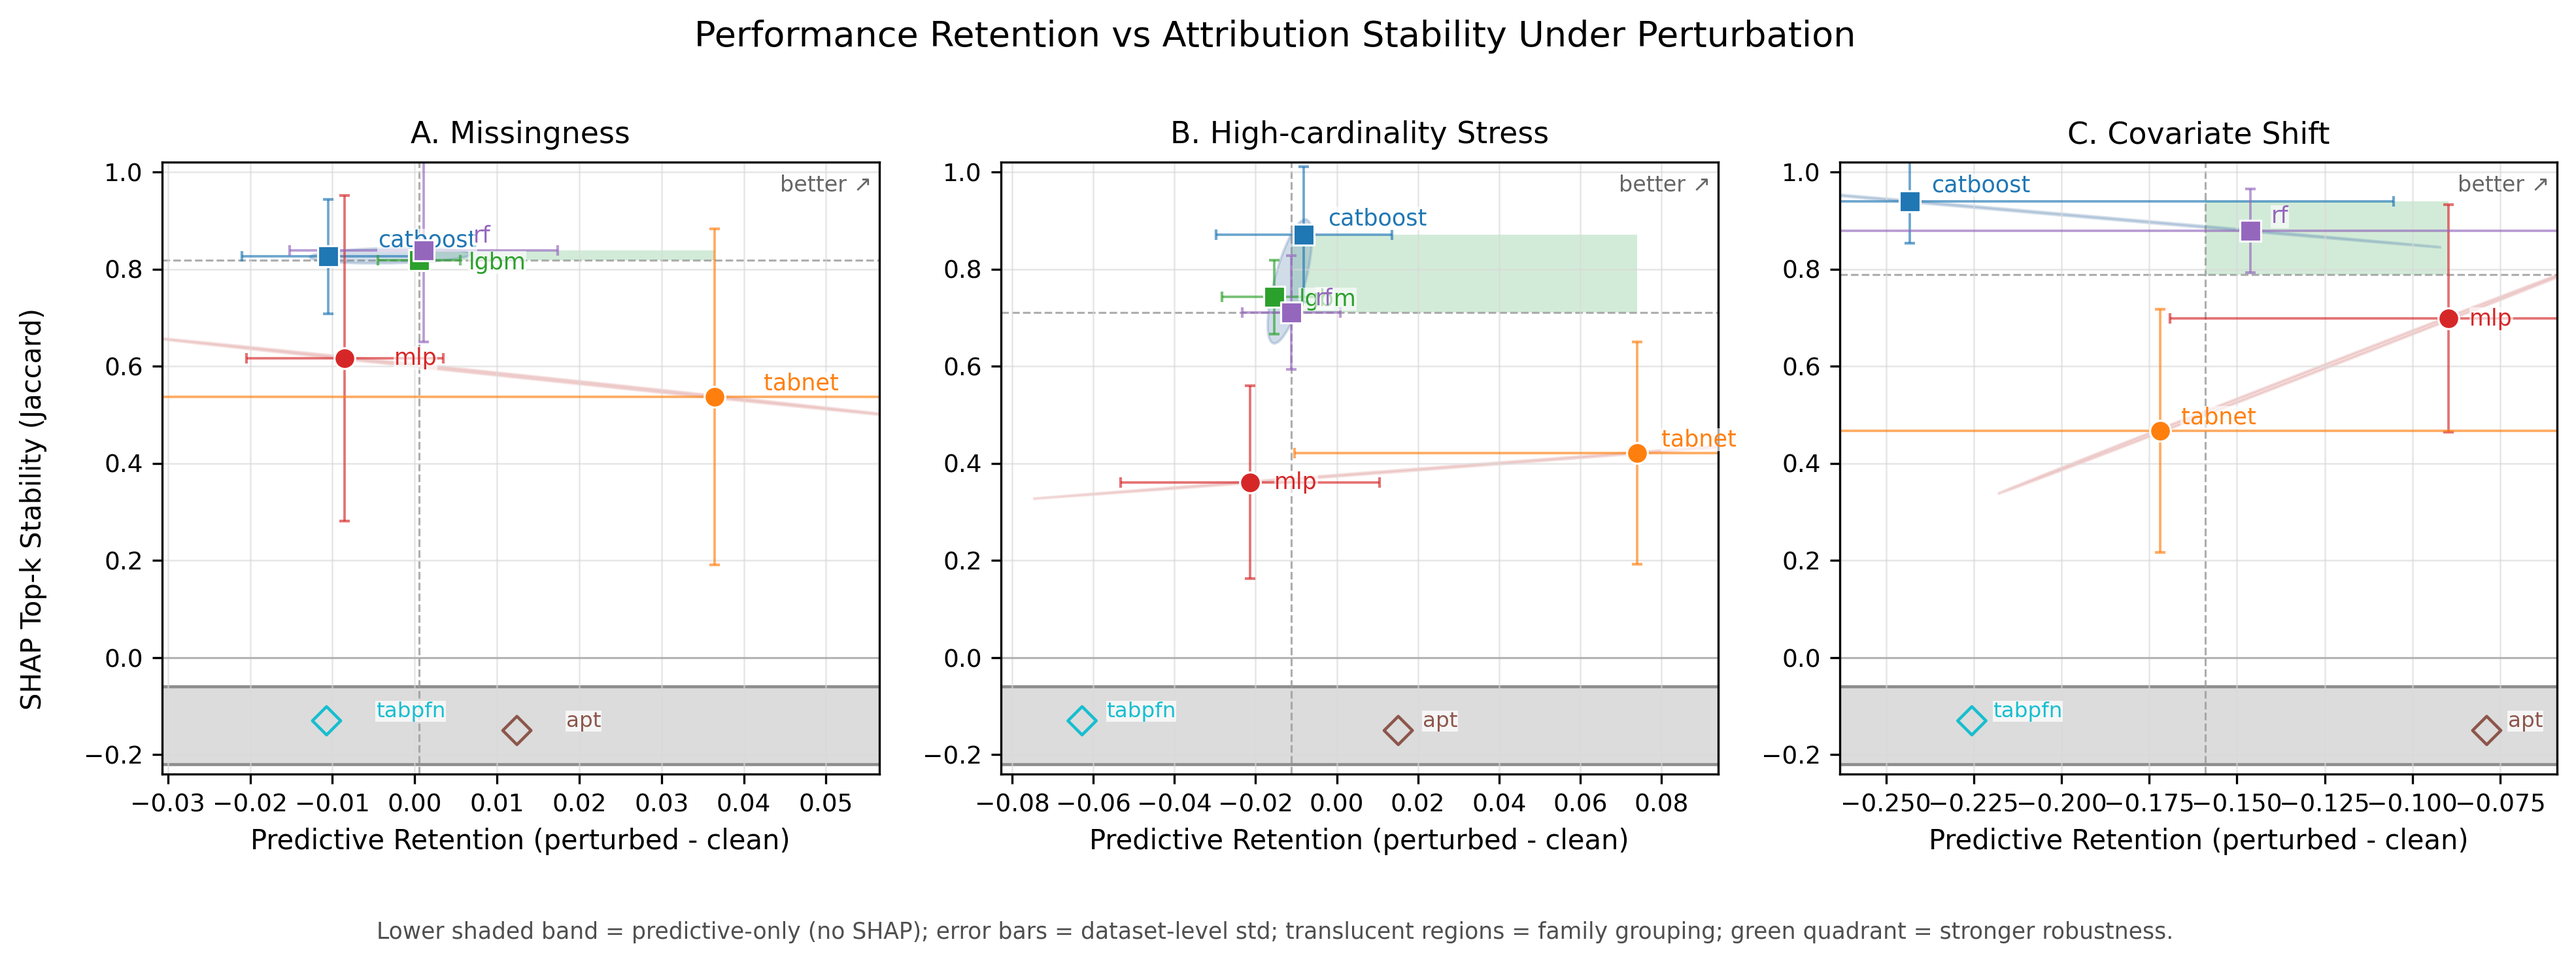
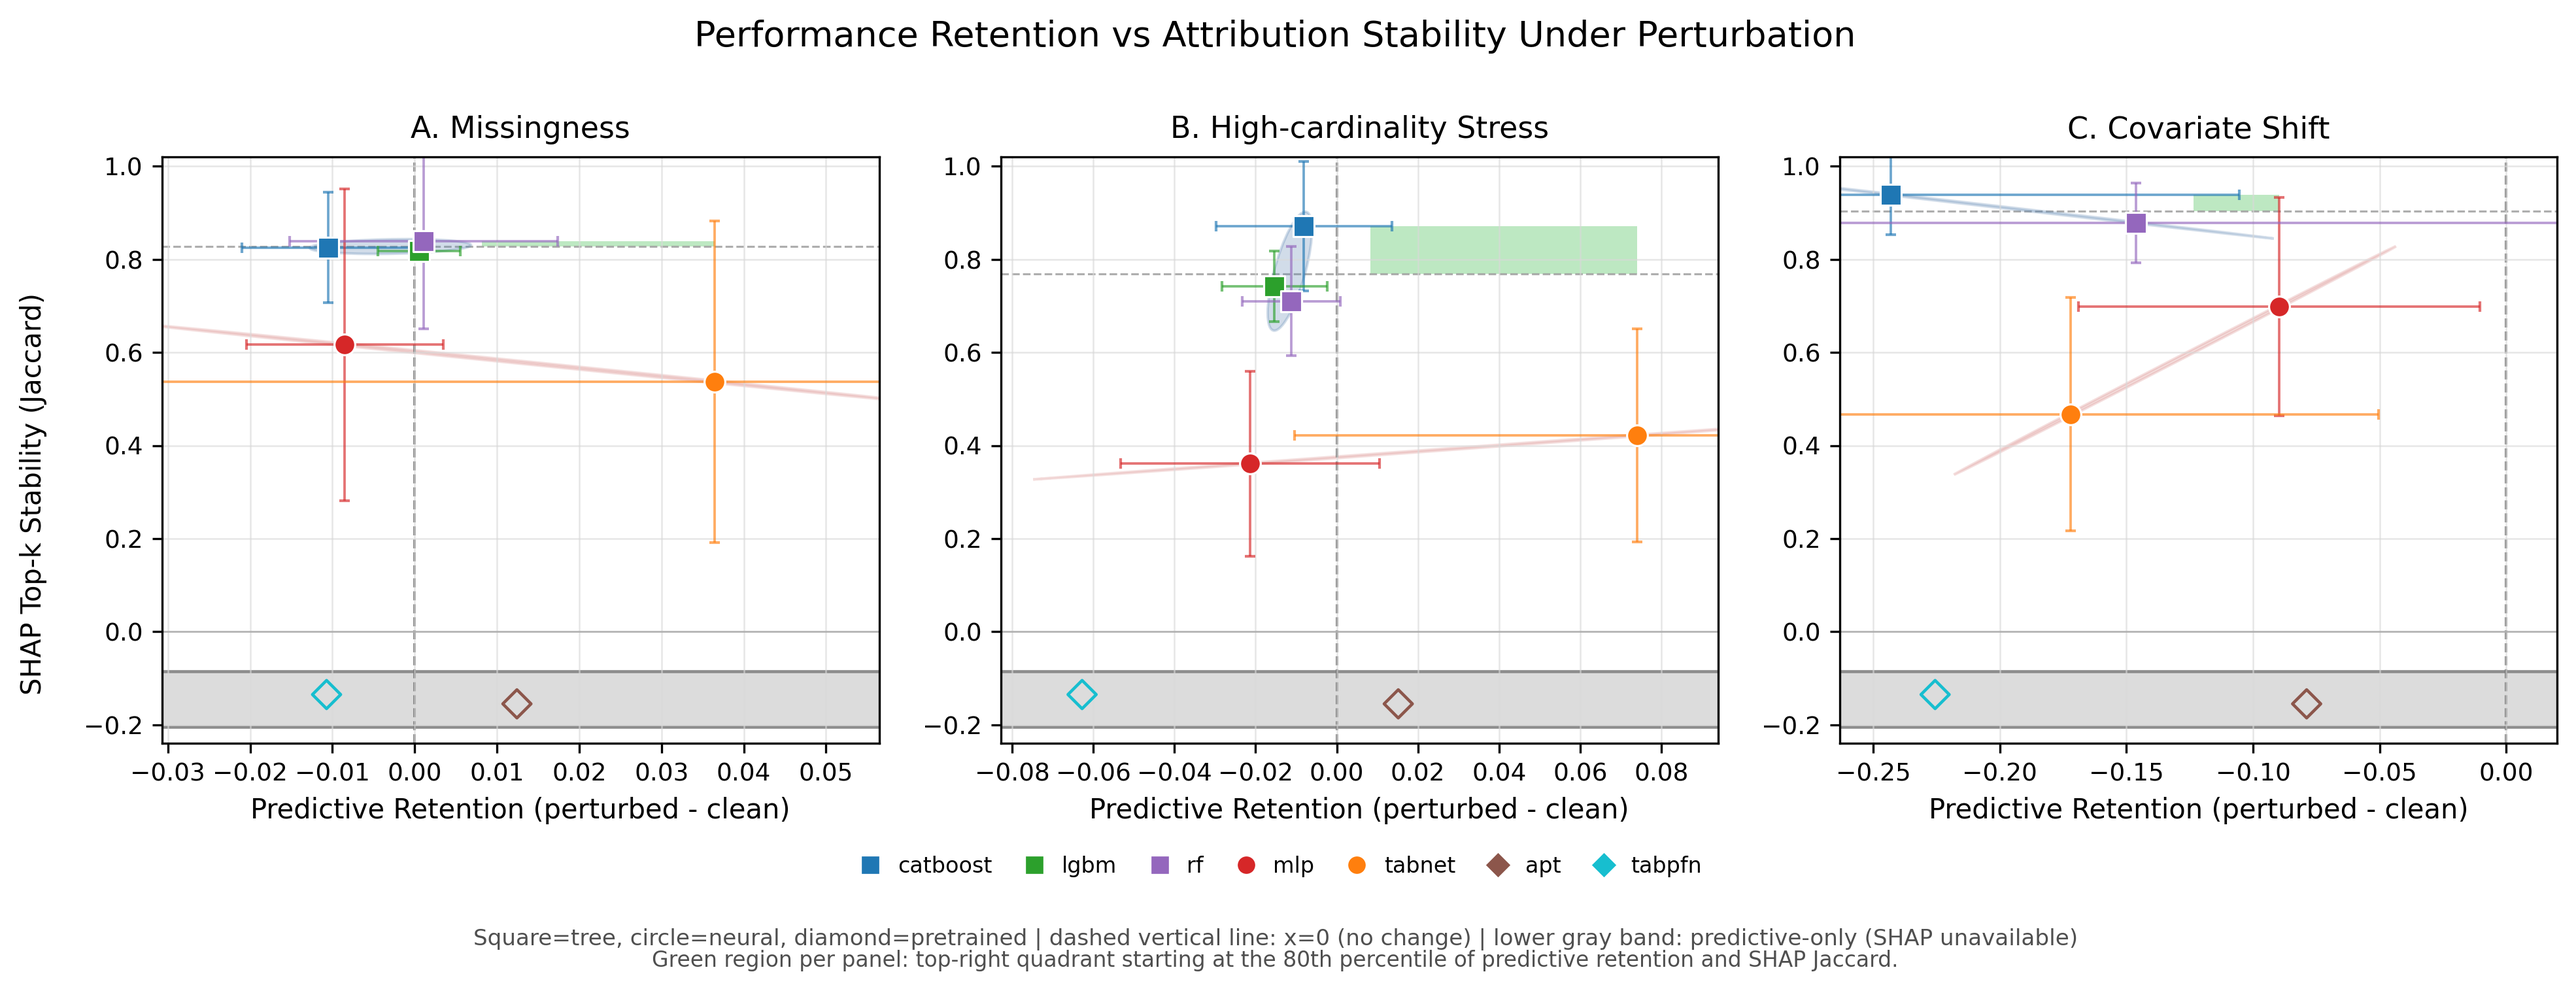
feat(robustness-figures): replace dumbbell plot and refine degradation-vs-SHAP figure
Replace old Figure 7 with clean-vs-shifted performance plot, remove deprecated dumbbell PNG, and refine Figure 10 layout/annotations with updated data export.

diff --git a/src/robustness/plot_degradation_vs_shap_stability.py b/src/robustness/plot_degradation_vs_shap_stability.py
@@ -25,6 +25,7 @@ from pathlib import Path
 
 import matplotlib
 from matplotlib.patches import Ellipse, Rectangle
+from matplotlib.lines import Line2D
 import numpy as np
 import pandas as pd
 
@@ -273,46 +274,34 @@ def _draw_panel(ax: plt.Axes, panel_df: pd.DataFrame, title: str) -> None:
     ax.set_title(title, fontsize=11, pad=7)
 
     # A dedicated strip for models with predictive data but no SHAP.
-    strip_lo, strip_hi = -0.22, -0.06
-    missing_y = -0.14
+    strip_lo, strip_hi = -0.205, -0.085
+    missing_y = -0.145
     ax.axhspan(strip_lo, strip_hi, color="#d9d9d9", alpha=0.9, zorder=0)
     ax.axhline(strip_hi, color="#8d8d8d", linewidth=1.1, zorder=1)
     ax.axhline(strip_lo, color="#8d8d8d", linewidth=1.1, zorder=1)
 
-    # "Better" region (upper-right) and reference lines.
+    # Small "favorable" region (upper-right) and fixed x=0 reference.
     main = panel_df[panel_df["shap_jaccard"].notna()].copy()
     if not main.empty:
-        x_ref = float(main["predictive_retention"].median())
-        y_ref = float(main["shap_jaccard"].median())
+        x_ref = float(main["predictive_retention"].quantile(0.80))
+        y_ref = float(main["shap_jaccard"].quantile(0.80))
         x_max = float(main["predictive_retention"].max())
         y_max = float(main["shap_jaccard"].max())
         rect = Rectangle(
             (x_ref, y_ref),
             max(1e-6, x_max - x_ref),
             max(1e-6, y_max - y_ref),
-            facecolor="#8fcf9f",
+            facecolor="#6FCE7A",
             edgecolor="none",
-            alpha=0.4,
+            alpha=0.46,
             zorder=0.5,
         )
         ax.add_patch(rect)
-        ax.axvline(x_ref, linestyle="--", color="#9a9a9a", linewidth=0.75, alpha=0.8, zorder=1)
         ax.axhline(y_ref, linestyle="--", color="#9a9a9a", linewidth=0.75, alpha=0.8, zorder=1)
 
     # Family overlays (main area only).
     draw_family_overlay(ax, panel_df, "tree")
     draw_family_overlay(ax, panel_df, "neural")
-
-    # Slight label offsets to reduce overlaps.
-    text_jitter = {
-        "catboost": (0.006, 0.02),
-        "lgbm": (0.006, -0.018),
-        "rf": (0.006, 0.016),
-        "mlp": (0.006, -0.014),
-        "tabnet": (0.006, 0.014),
-        "apt": (0.006, 0.008),
-        "tabpfn": (0.006, -0.008),
-    }
 
     panel_df = panel_df.copy()
     panel_df["has_shap"] = panel_df["shap_jaccard"].notna()
@@ -347,15 +336,6 @@ def _draw_panel(ax: plt.Axes, panel_df: pd.DataFrame, title: str) -> None:
             linewidth=0.75,
             zorder=3,
         )
-        dx, dy = text_jitter.get(m, (0.004, 0.01))
-        ax.text(
-            x + dx,
-            y + dy,
-            m,
-            fontsize=8.4,
-            color=style["color"],
-            bbox={"facecolor": "white", "edgecolor": "none", "alpha": 0.65, "pad": 0.2},
-        )
 
     # Models without SHAP: keep them visible and explicit.
     miss = panel_df[~panel_df["has_shap"]].copy()
@@ -377,29 +357,12 @@ def _draw_panel(ax: plt.Axes, panel_df: pd.DataFrame, title: str) -> None:
                 linewidth=1.1,
                 zorder=3,
             )
-            ax.text(
-                x + 0.006,
-                y + 0.008,
-                m,
-                fontsize=7.8,
-                color=style["color"],
-                bbox={"facecolor": "white", "edgecolor": "none", "alpha": 0.75, "pad": 0.15},
-            )
 
     ax.set_ylim(-0.24, 1.02)
     # shared y-label will be added at figure level
     ax.set_xlabel("Predictive Retention (perturbed - clean)")
-    ax.axhline(0.0, color="#a7a7a7", linewidth=0.75, alpha=0.8)
-    ax.text(
-        0.99,
-        0.98,
-        "better \u2197",
-        transform=ax.transAxes,
-        ha="right",
-        va="top",
-        fontsize=8,
-        color="#666666",
-    )
+    ax.axvline(0.0, linestyle="--", color="#6f6f6f", linewidth=0.9, alpha=0.9, zorder=1.2)
+    ax.axhline(0.0, color="#a7a7a7", linewidth=0.70, alpha=0.75)
 
 
 def main() -> None:
@@ -414,38 +377,76 @@ def main() -> None:
     plot_df.to_csv(DATA_PATH, index=False)
 
     fig, axes = plt.subplots(1, 3, figsize=(13.2, 5.2))
-    fig.subplots_adjust(left=0.07, right=0.995, top=0.84, bottom=0.24, wspace=0.17)
+    fig.subplots_adjust(left=0.07, right=0.995, top=0.83, bottom=0.255, wspace=0.17)
 
     _draw_panel(axes[0], panel_a, "A. Missingness")
     _draw_panel(axes[1], panel_b, "B. High-cardinality Stress")
     _draw_panel(axes[2], panel_c, "C. Covariate Shift")
 
-    # Panel-wise x-limits reduce dead space and improve readability.
+    # Panel-wise x-limits reduce dead space and keep x=0 visible in all panels.
     for ax, dfp in zip(axes, [panel_a, panel_b, panel_c]):
         x_min = float(dfp["predictive_retention"].min())
         x_max = float(dfp["predictive_retention"].max())
         pad = max(0.02, 0.12 * (x_max - x_min if x_max > x_min else 1.0))
-        ax.set_xlim(x_min - pad, x_max + pad)
-
-    # One global explanatory note to avoid repeated panel text.
-    fig.text(
-        0.5,
-        0.085,
-        "Lower shaded band = predictive-only (no SHAP); error bars = dataset-level std; "
-        "translucent regions = family grouping; green quadrant = stronger robustness.",
-        ha="center",
-        va="center",
-        fontsize=8.3,
-        color="#4f4f4f",
-    )
+        left = x_min - pad
+        right = x_max + pad
+        ax.set_xlim(left, max(right, 0.02))
 
     # Shared Y label for all panels.
     fig.supylabel("SHAP Top-k Stability (Jaccard)", x=0.015, fontsize=10)
 
+    # Bottom legend block (figure-level) for model/logo identification.
+    model_handles = [
+        Line2D(
+            [0],
+            [0],
+            marker=MODEL_STYLE[m]["marker"],
+            color="none",
+            markerfacecolor=MODEL_STYLE[m]["color"],
+            markeredgecolor="white",
+            markeredgewidth=0.8,
+            markersize=7.2,
+            label=m,
+        )
+        for m in MODEL_STYLE
+    ]
+    fig.legend(
+        handles=model_handles,
+        loc="lower center",
+        ncol=7,
+        fontsize=8.0,
+        frameon=False,
+        bbox_to_anchor=(0.5, 0.105),
+        handletextpad=0.25,
+        columnspacing=0.95,
+    )
+
+    # Concise semantics legend under model identities.
+    fig.text(
+        0.5,
+        0.063,
+        "Square=tree, circle=neural, diamond=pretrained | "
+        "dashed vertical line: x=0 (no change) | "
+        "lower gray band: predictive-only (SHAP unavailable)",
+        ha="center",
+        va="center",
+        fontsize=8.2,
+        color="#4f4f4f",
+    )
+    fig.text(
+        0.5,
+        0.042,
+        "Green region per panel: top-right quadrant starting at the 80th percentile of predictive retention and SHAP Jaccard.",
+        ha="center",
+        va="center",
+        fontsize=7.9,
+        color="#4f4f4f",
+    )
+
     fig.suptitle(
         "Performance Retention vs Attribution Stability Under Perturbation",
         fontsize=13,
-        y=0.98,
+        y=0.965,
     )
 
     fig.savefig(FIG_PATH, dpi=300, bbox_inches="tight")
